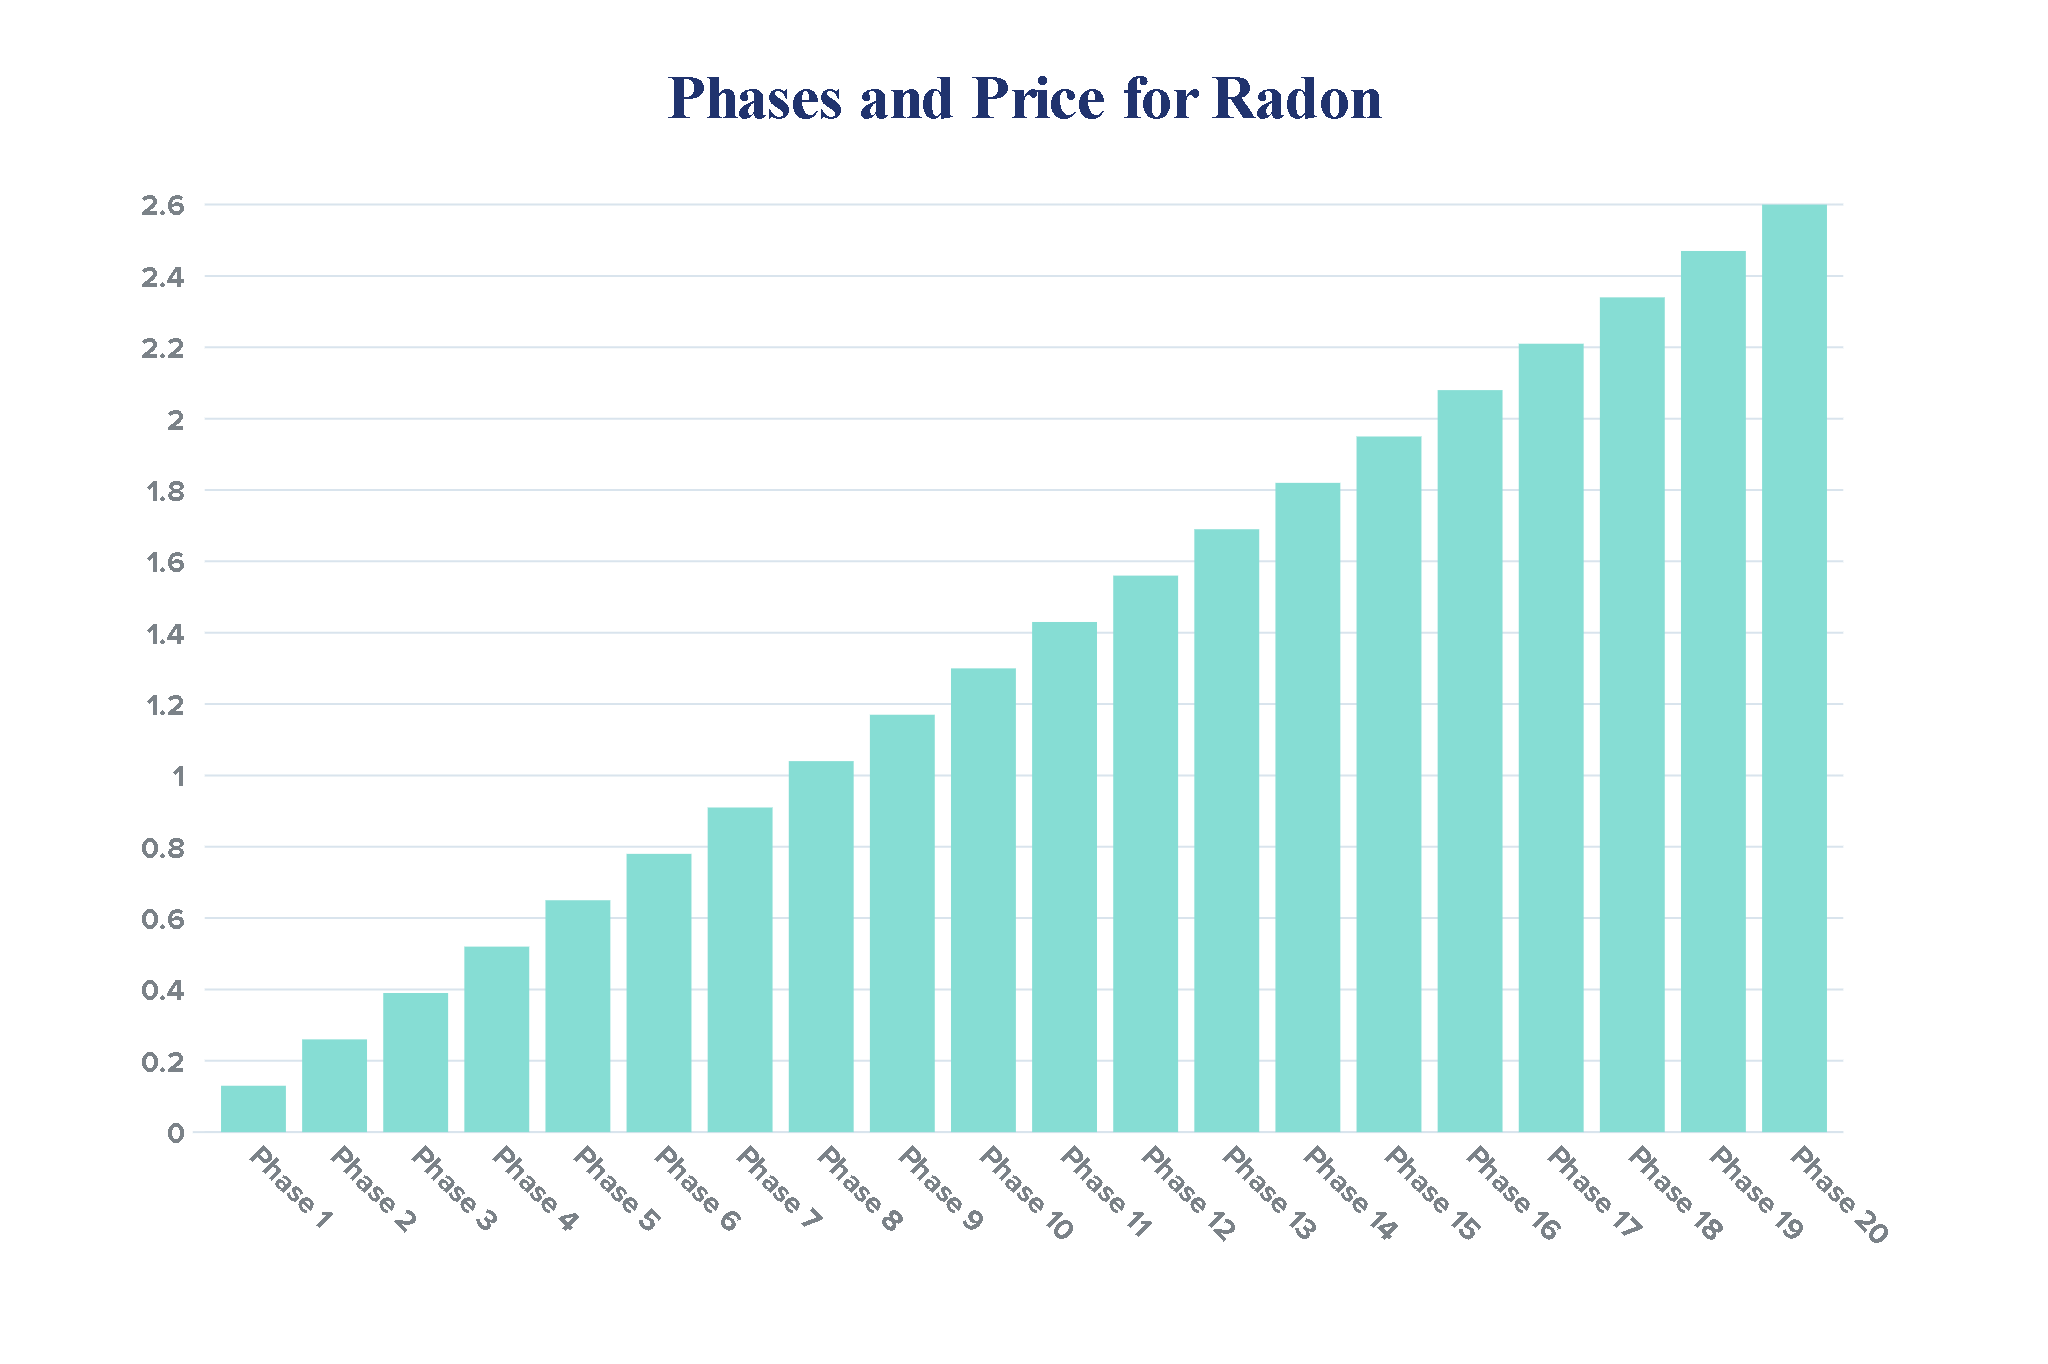
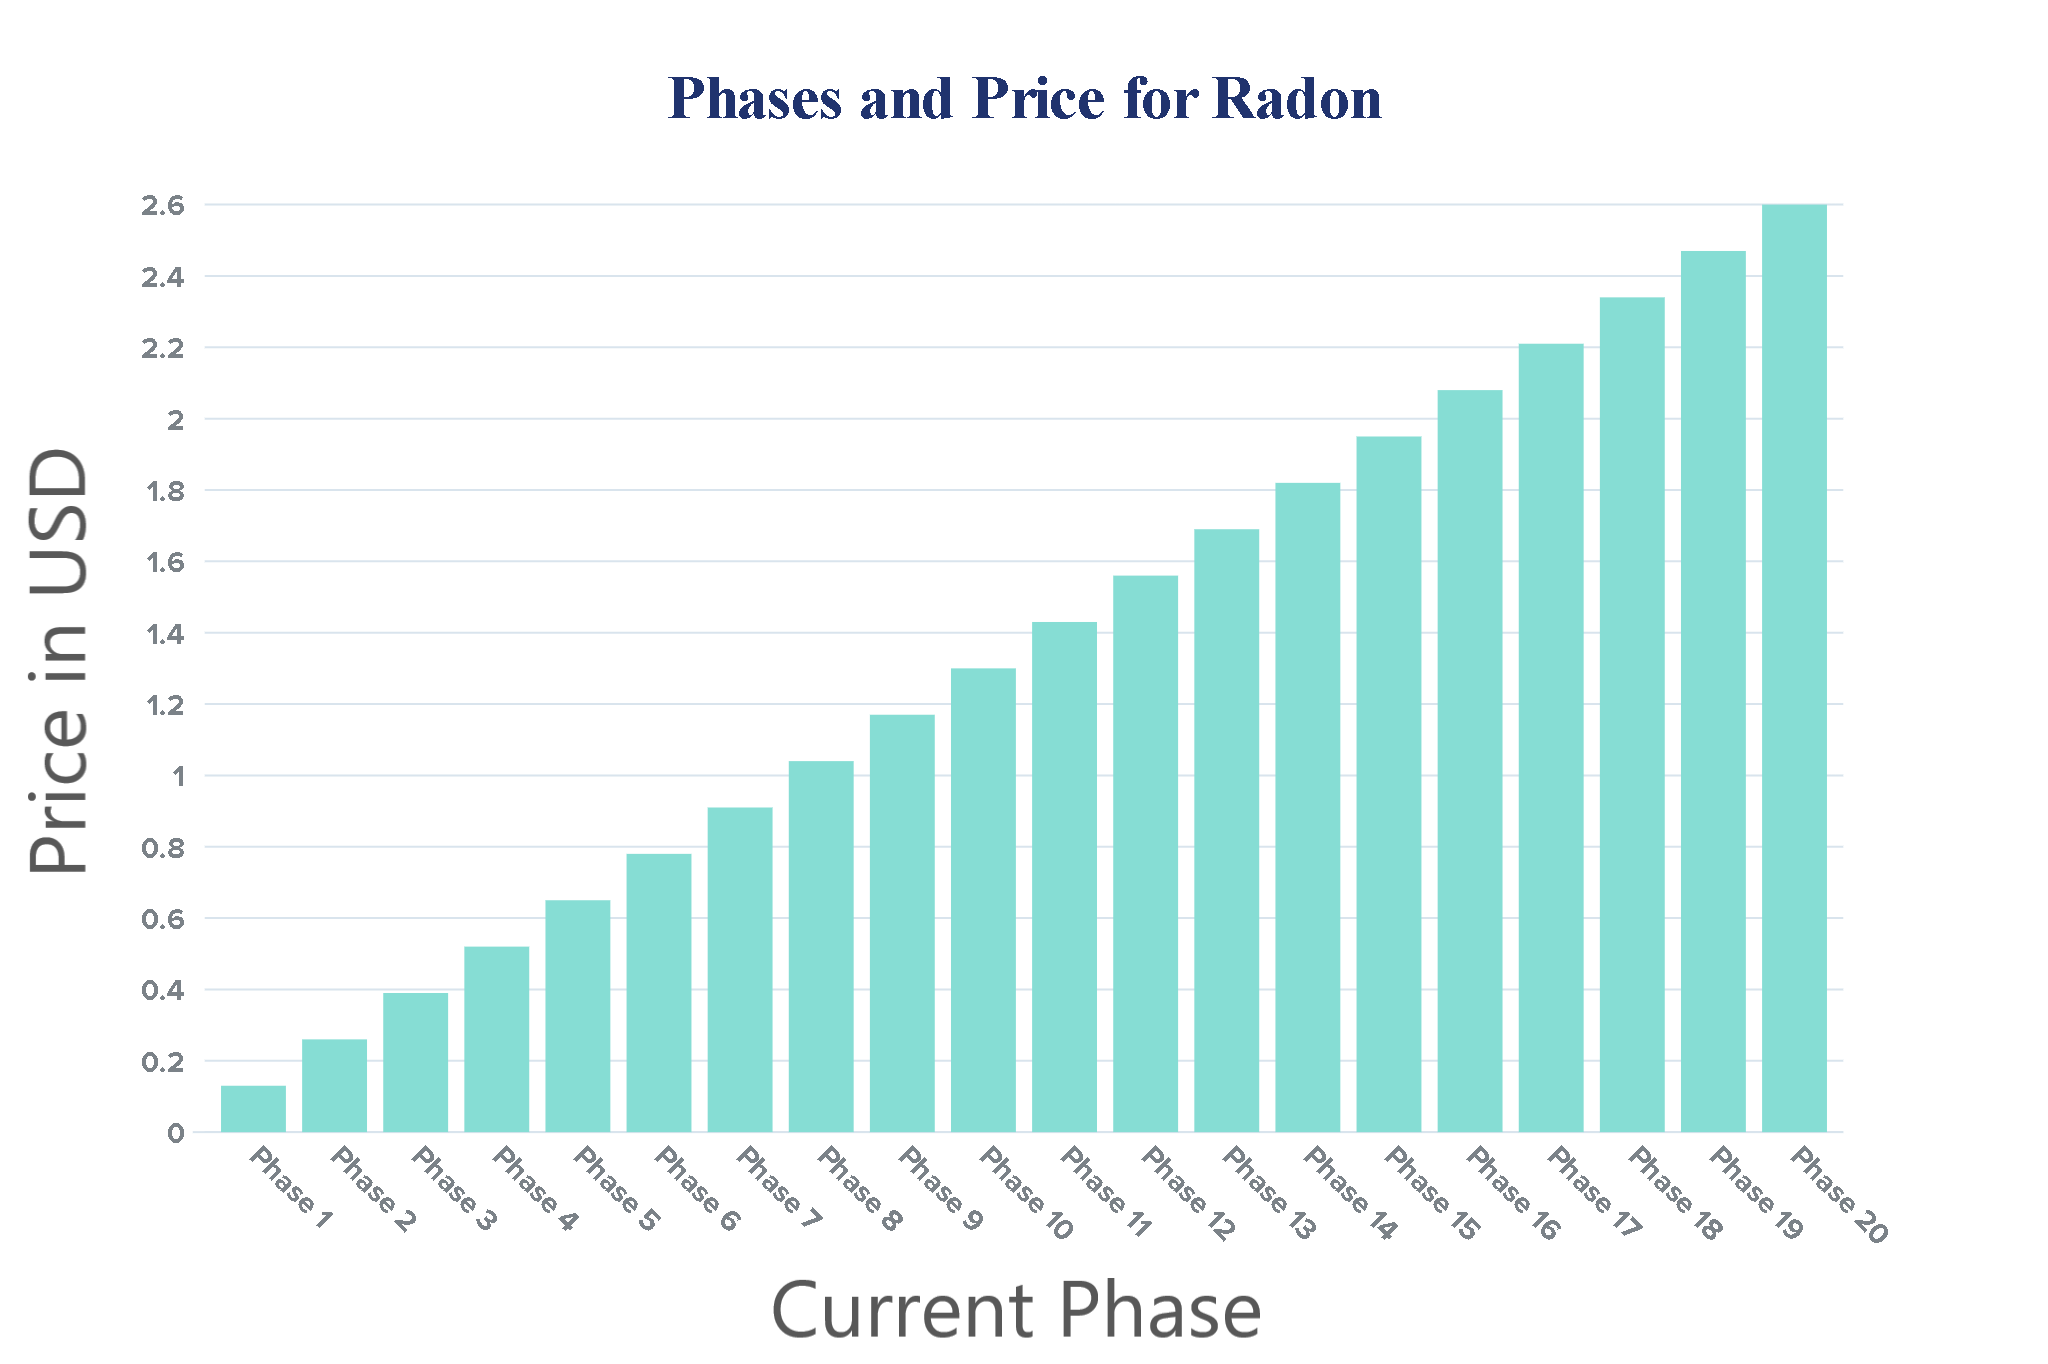
Added axis to chart
This will make the site look more clean, this was a suggestion of a group of people peer-reviewing our website.

diff --git a/index.html b/index.html
@@ -208,18 +208,18 @@
             </table>
          </div>
          <div class="w3-container w3-third w3-left w3-animate-right">
-            <h2 class="w3-xxlarge"><b>20-phase plan explained.</b></h2>
+            <h2 class="w3-xxlarge"><b>20-Phase plan explained.</b></h2>
             <p class="w3-xlarge">
                <br>
-               <b class="w3-xlarge">What is the 20-phase plan?</b>
+               <b class="w3-xlarge">What is the 20-Phase plan?</b>
                <br>
-               In this plan we try to improve the coin’s price by increasing the price per phase.
-               We bring in each phase more coins in circulation with a higher price per coin. <br> After each drop of coins, we wait 1 month for another drop to let the coin stabilize, by letting people trade with the coin.
+               In this plan we try to improve the coin’s price by increasing the price per Phase.
+               We bring in each Phase more coins in circulation with a higher price per coin. <br> After each drop of coins, we wait 1 month for another drop to let the coin stabilize, by letting people trade with the coin.
                <br>
                <br>
-               <b>What is the point of the 20-phase plan?</b>
+               <b>What is the point of the 20-Phase plan?</b>
                <br>
-               With this plan we try to artificially increase the price. The buyer can make money by buying the coin in an early phase and sell it in a later phase. After all the phases Radon will be a trading tool used for day trading or holding the coin and hope the price will increase over time.
+               With this plan we try to artificially increase the price. The buyer can make money by buying the coin in an early Phase and sell it in a later Phase. After all the Phases Radon will be a trading tool used for day trading or holding the coin and hope the price will increase over time.
             </p>
          </div>
       </div>
